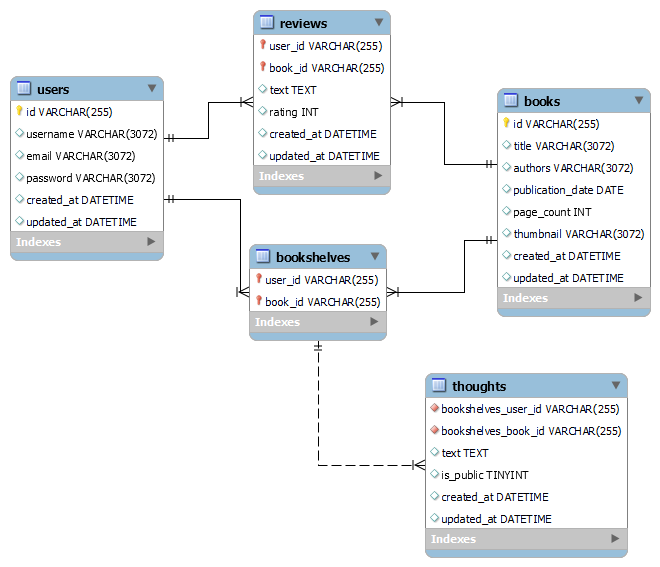
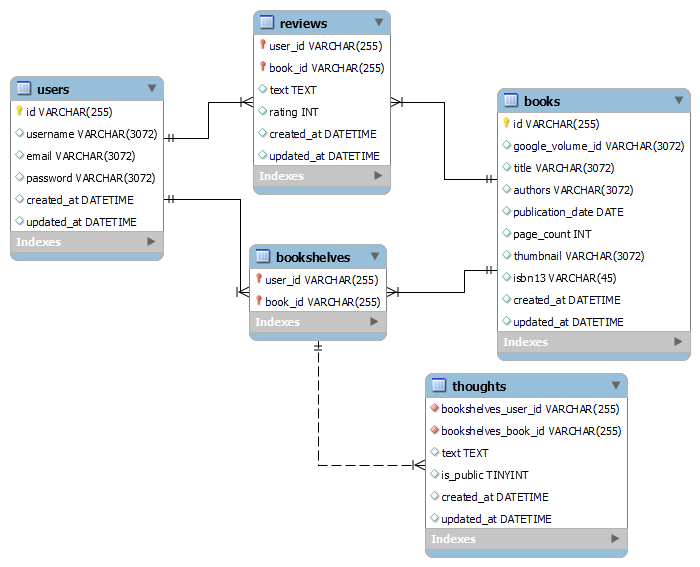
Added logic to save books from API to database

diff --git a/flask_app/templates/search_page.html b/flask_app/templates/search_page.html
@@ -37,13 +37,17 @@
         <input type="submit" value="Search">
     </form>
     <h2>Results:</h2>
-    {% for book in book_results %}
-    <img src="{{ book.thumbnail }}">
-    <p>{{ book.title }}</p>
-    <p>by {{ book.authors }}</p>
-    <p>ISBN: {{ book.isbn13 }}</p>
-    <p>Pages: {{ book.page_count }}</p>
-    <p>Publication date: {{ book.publication_date }}</p>
+    {% for id in book_results %}
+    <img src="{{ book_results[id].thumbnail }}">
+    <p>{{ book_results[id].title }}</p>
+    <p>by {{ book_results[id].authors }}</p>
+    <p>ISBN: {{ book_results[id].isbn13 }}</p>
+    <p>Pages: {{ book_results[id].page_count }}</p>
+    <p>Publication date: {{ book_results[id].publication_date }}</p>
+    <form action="/add-book-to-database" method="POST">
+        <input type="hidden" name="google_volume_id" value="{{ id }}">
+        <input type="submit" value="Add to bookshelf">
+    </form>
     <hr/> <!-- Temporary -->
     {% endfor %}
 </body>

diff --git a/flask_app/services/google_books_api.py b/flask_app/services/google_books_api.py
@@ -4,32 +4,55 @@ import requests, os
 
 GOOGLE_API_LINK = "https://www.googleapis.com/books/v1/volumes"
 
-def get_books_by_isbn(form_data):
+def get_books_by_isbn(form_data, id_set):
+    """Grabs books from Google Books API by ISBN - both 10- and 13-digit values
+
+    Args:
+        form_data (dict): Raw data from HTML form
+        id_set(set(str)): Set of IDs saved as strings
+
+    Returns:
+        list: A list of dictionaries holding book data from the Google Books API
+    """
     book_results = process_data({
         "api_key": os.getenv("GOOGLE_API_KEY"), 
         "q": "isbn:"+form_data["isbn"],
         "langRestrict": "en"
-        })
+        }, id_set)
     return book_results
 
-def get_books_by_title_and_author(form_data):
+def get_books_by_title_and_author(form_data, id_set):
+    """Grabs books from Google Books API by title and author
+
+    Args:
+        form_data (dict): Raw data from HTML form with "title" and "author" as keys
+        id_set(set(str)): Set of IDs saved as strings
+
+    Returns:
+        list: A list of dictionaries holding book data from the Google Books API
+    """
     book_results = process_data({
         "api_key": os.getenv("GOOGLE_API_KEY"), 
         "q": "intitle:"+form_data["title"]+"+"+"inauthor:"+form_data["author"],
         "langRestrict": "en"
-        })
+        }, id_set)
     return book_results
 
 # Helper function to make API call, then process raw JSON data and convert it to a form that can be saved in the database
-def process_data(query_data):
+def process_data(query_data, id_set):
     r = requests.get(GOOGLE_API_LINK, query_data)
     raw_json = r.json()
-    all_books = [] # List where each item is a dictionary holding a different search result
+    all_books = {} # Dictionary where each key is a Google Volume ID with info about the book
     for book in raw_json['items']:
         book_info = book['volumeInfo']
         # Take data from API and put it in new dictionary that's usable in case it's saved to the local databsase
         clean_book_dict = {}
-        clean_book_dict["google_volume_id"] = book['id'] if 'id' in book else ""
+        google_volume_id = book['id'] if 'id' in book else ""
+        # NOTE: TEMPORARY - skip this result if we already have this book in the database; 
+        # eventually a boolean will be used if the book is already in the database so that in
+        # the search results the button will say "Add to your shelf" OR text saying "this book is in your shelf"
+        if google_volume_id in id_set: 
+            continue
         clean_book_dict["title"] = book_info['title'] if 'title' in book_info else ""
         if "authors" in book_info:
             all_authors = ""
@@ -57,5 +80,5 @@ def process_data(query_data):
                 clean_book_dict["isbn13"] = ""
         else:
             clean_book_dict["isbn13"] = ""
-        all_books.append(clean_book_dict)
+        all_books[google_volume_id] = clean_book_dict
     return all_books

diff --git a/flask_app/controllers/book_controller.py b/flask_app/controllers/book_controller.py
@@ -20,18 +20,18 @@ def search_page():
         "isbn": ""
     }
     for key, msg in error_msgs:
-        error_data[key] = msg    
+        error_data[key] = msg
     return render_template("search_page.html", error_data = error_data, book_results = book_results, form_data = form_data)
 
 @app.route("/search-by-isbn", methods=["POST"])
 def search_by_isbn():
-    print(request.form)
     is_valid = book.Book.validate_isbn(request.form) # Validate ISBN
     # Save form data when page reloads
     session["isbn"] = request.form.get("isbn", "")
     if not is_valid:
         return redirect(url_for("search_page"))
-    book_results = google_books_api.get_books_by_isbn(request.form)
+    google_book_ids = book.Book.get_all_ids()
+    book_results = google_books_api.get_books_by_isbn(request.form, google_book_ids)
     # NOTE: In the future, add logic for if there's an error with the API
     session["book_results"] = book_results
     return redirect(url_for("search_page"))
@@ -44,7 +44,22 @@ def search_by_title_and_author():
     session["title"] = request.form.get("title", "")
     if not is_valid:
         return redirect(url_for("search_page"))
-    book_results = google_books_api.get_books_by_title_and_author(request.form)
+    google_book_ids = book.Book.get_all_ids()
+    book_results = google_books_api.get_books_by_title_and_author(request.form, google_book_ids)
     # NOTE: In the future, add logic for if there's an error with the API
     session["book_results"] = book_results
     return redirect(url_for("search_page"))
+
+@app.route("/add-book-to-database", methods=["POST"])
+def add_book_to_database():
+    # Find book 
+    volume_id = request.form["google_volume_id"]
+    # NOTE: Reserved for handling errors
+    # if "book_results" not in session or volume_id not in session["book_results"]:
+    #     pass
+    book_info = session["book_results"][volume_id]
+    book_info["google_volume_id"] = volume_id # Save volume ID from Google in data dictionary before saving in the database
+    # Save book in database
+    book.Book.create(book_info)
+    # NOTE: To add - put this book in the logged in user's shelf
+    return redirect(url_for("dashboard")) # NOTE: This is a TEMPORARY route

diff --git a/flask_app/models/book.py b/flask_app/models/book.py
@@ -18,6 +18,46 @@ class Book:
         self.thoughts = data.get("thoughts")
         self.reviews = data.get("reviews")
         self.readers = data.get("readers") # Users who added this book to their shelves
+
+    @classmethod
+    def create(cls, data: dict):
+        if "publication_date" not in data or data["publication_date"] == "":
+            query = """
+            INSERT INTO books 
+            (id, google_volume_id, title, authors, page_count, thumbnail, isbn13)
+            VALUES
+            (UUID(), %(google_volume_id)s, %(title)s, %(authors)s, %(page_count)s, %(thumbnail)s, %(isbn13)s);
+            """
+        else:
+            query = """
+            INSERT INTO books 
+            (id, google_volume_id, title, authors, publication_date, page_count, thumbnail, isbn13)
+            VALUES
+            (UUID(), %(google_volume_id)s, %(title)s, %(authors)s, %(publication_date)s, %(page_count)s, %(thumbnail)s, %(isbn13)s);
+            """
+        return connect_to_db(db_name, query, data)
+
+    @classmethod
+    def get_all(cls):
+        query = """
+        SELECT * FROM books;
+        """
+        raw_results = connect_to_db(db_name, query)
+        all_book_objects = []
+        for row in raw_results:
+            all_book_objects.append(cls(row))
+        return all_book_objects
+    
+    @classmethod
+    def get_all_ids(cls):
+        query = """
+        SELECT id, google_volume_id FROM books;
+        """
+        raw_results = connect_to_db(db_name, query)
+        all_google_ids = set([]) # Save all Google book IDs into a set for quick lookup
+        for row in raw_results:
+            all_google_ids.add(row["google_volume_id"])
+        return all_google_ids
     
     """
     Source: https://www.oreilly.com/library/view/regular-expressions-cookbook/9781449327453/ch04s13.html
